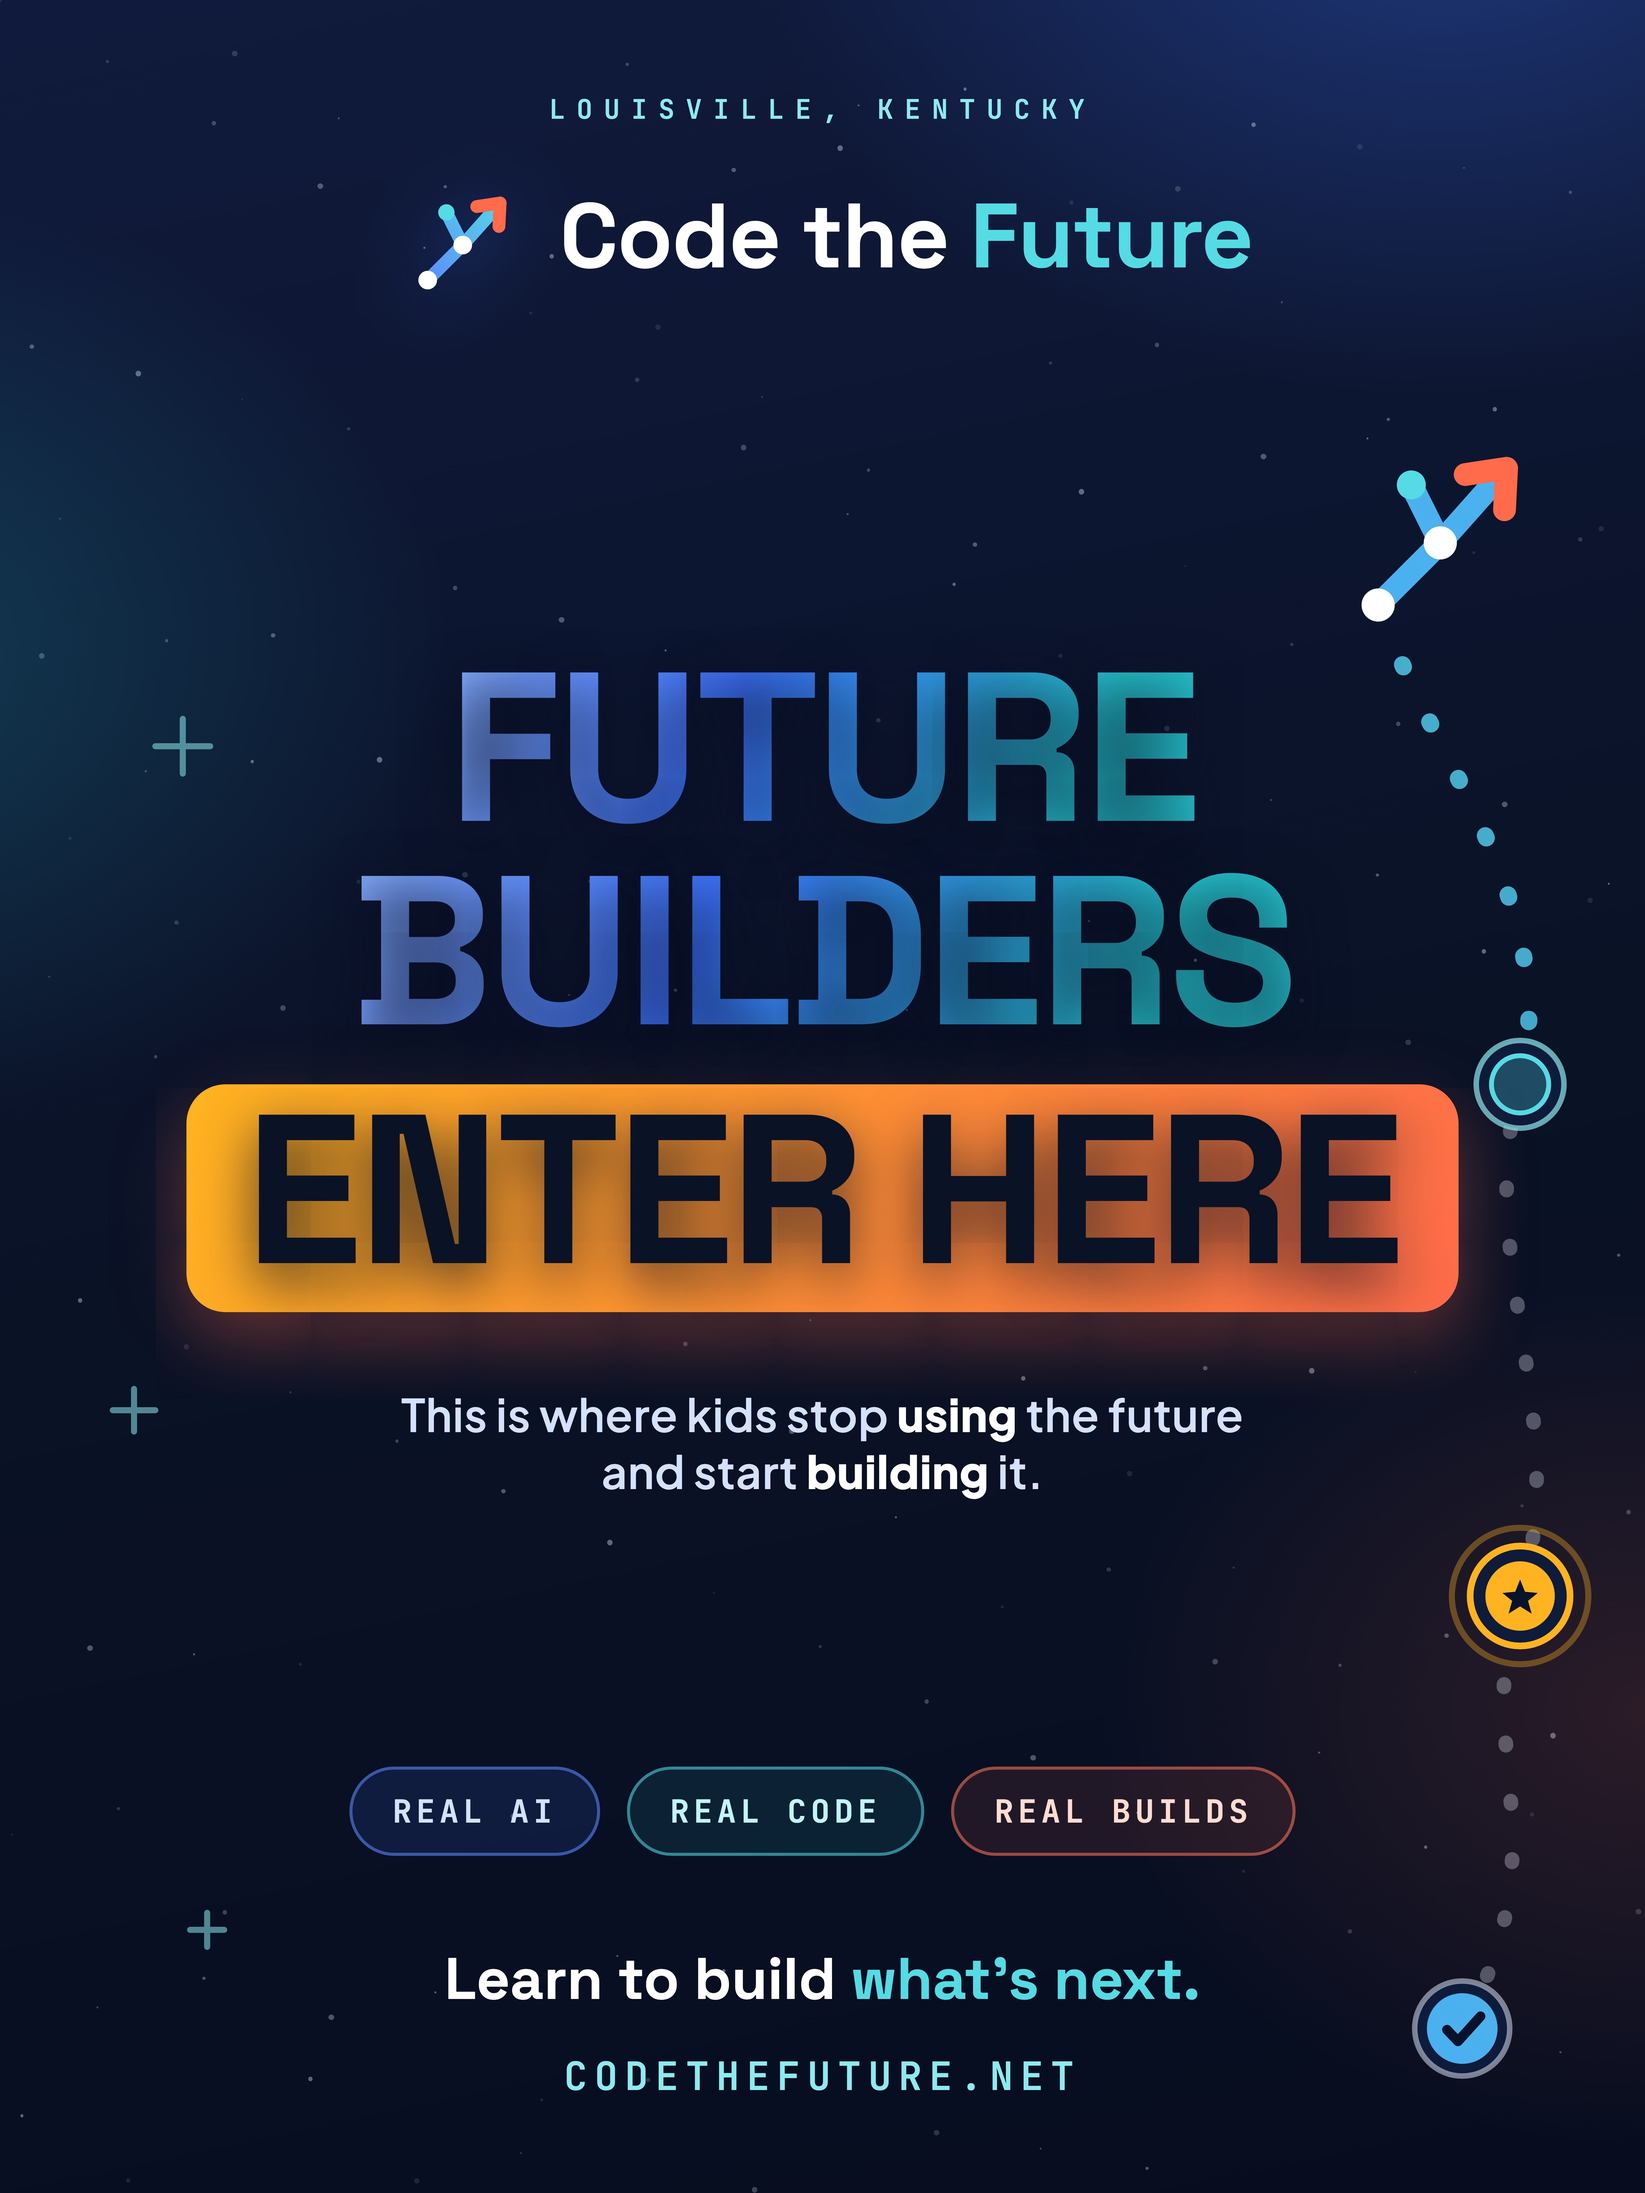
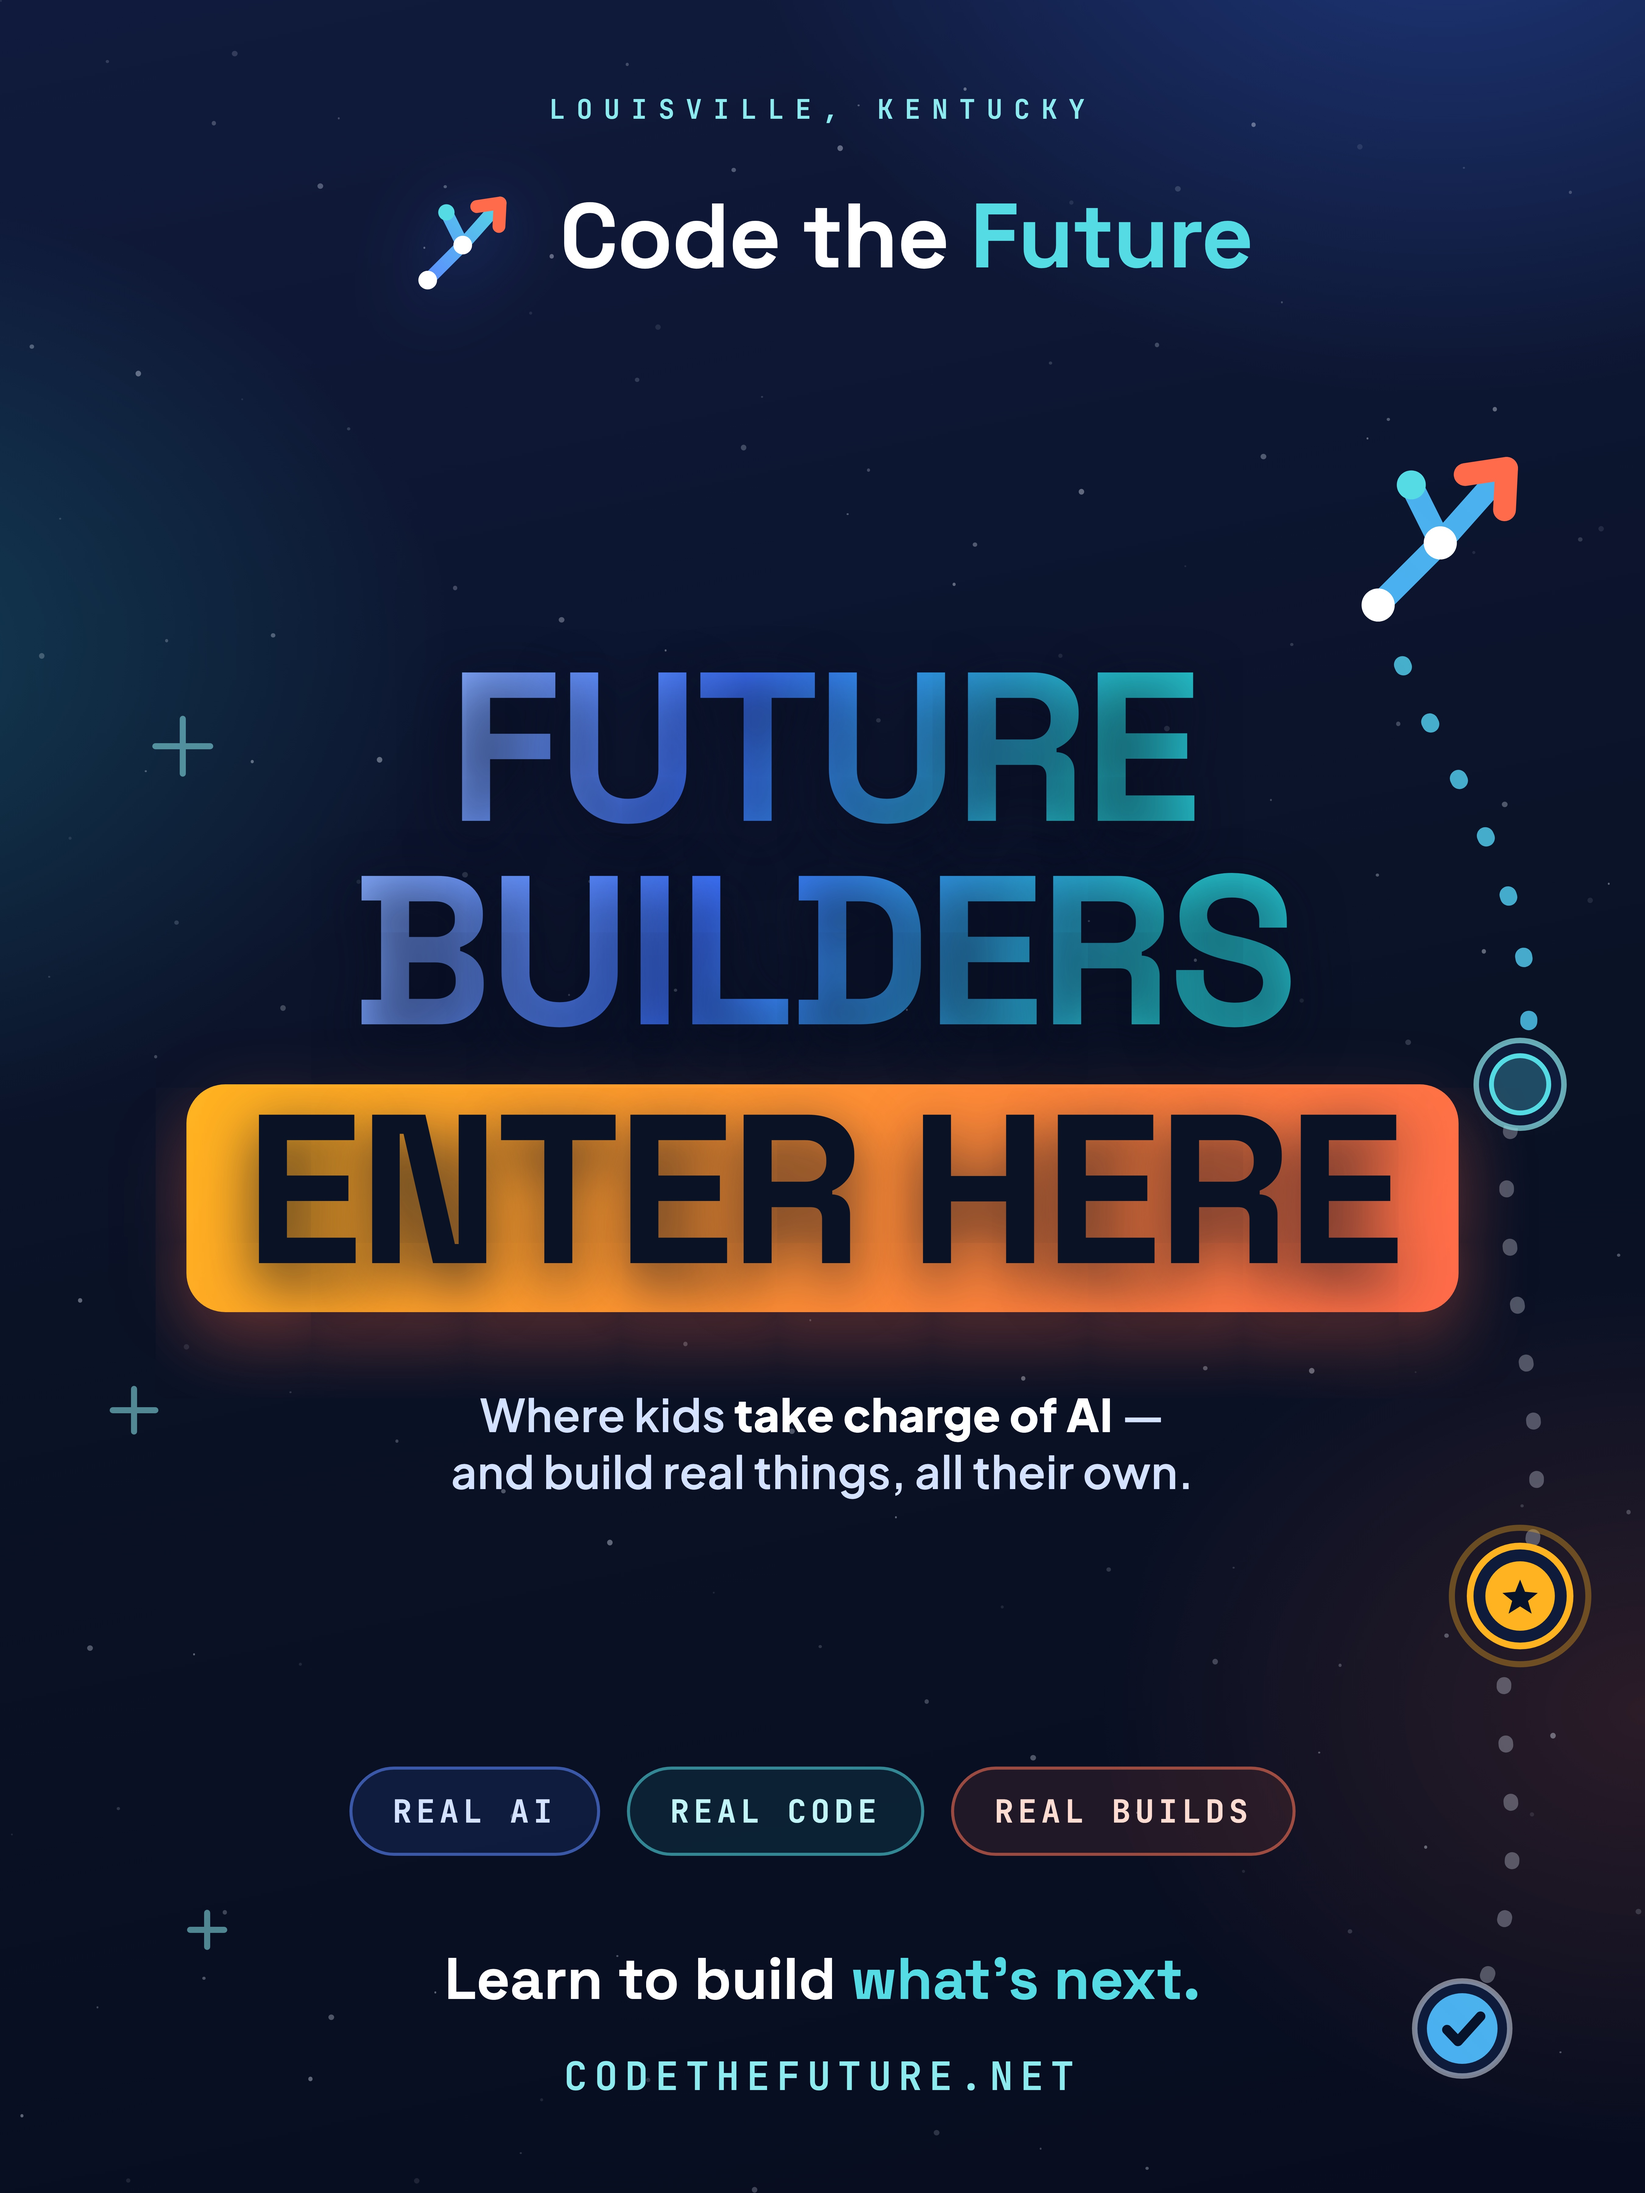
Door poster: rephrase subheadline to ownership framing ('take charge of AI')

Changed region(s): [[0.2489, 0.625, 0.7467, 0.6875]]

diff --git a/docs/posters/door-poster-18x24.html b/docs/posters/door-poster-18x24.html
@@ -120,7 +120,7 @@ svg.path{ position:absolute; inset:0; width:100%; height:100%; }
 
   <div class="hero">
     <h1><span class="g">FUTURE</span><br><span class="g">BUILDERS</span><br><span class="enter">ENTER HERE</span></h1>
-    <div class="sub">This is where kids stop <b>using</b> the future<br>and start <b>building</b> it.</div>
+    <div class="sub">Where kids <b>take charge of AI</b> —<br>and build real things, all their own.</div>
   </div>
 
   <div class="chips">
